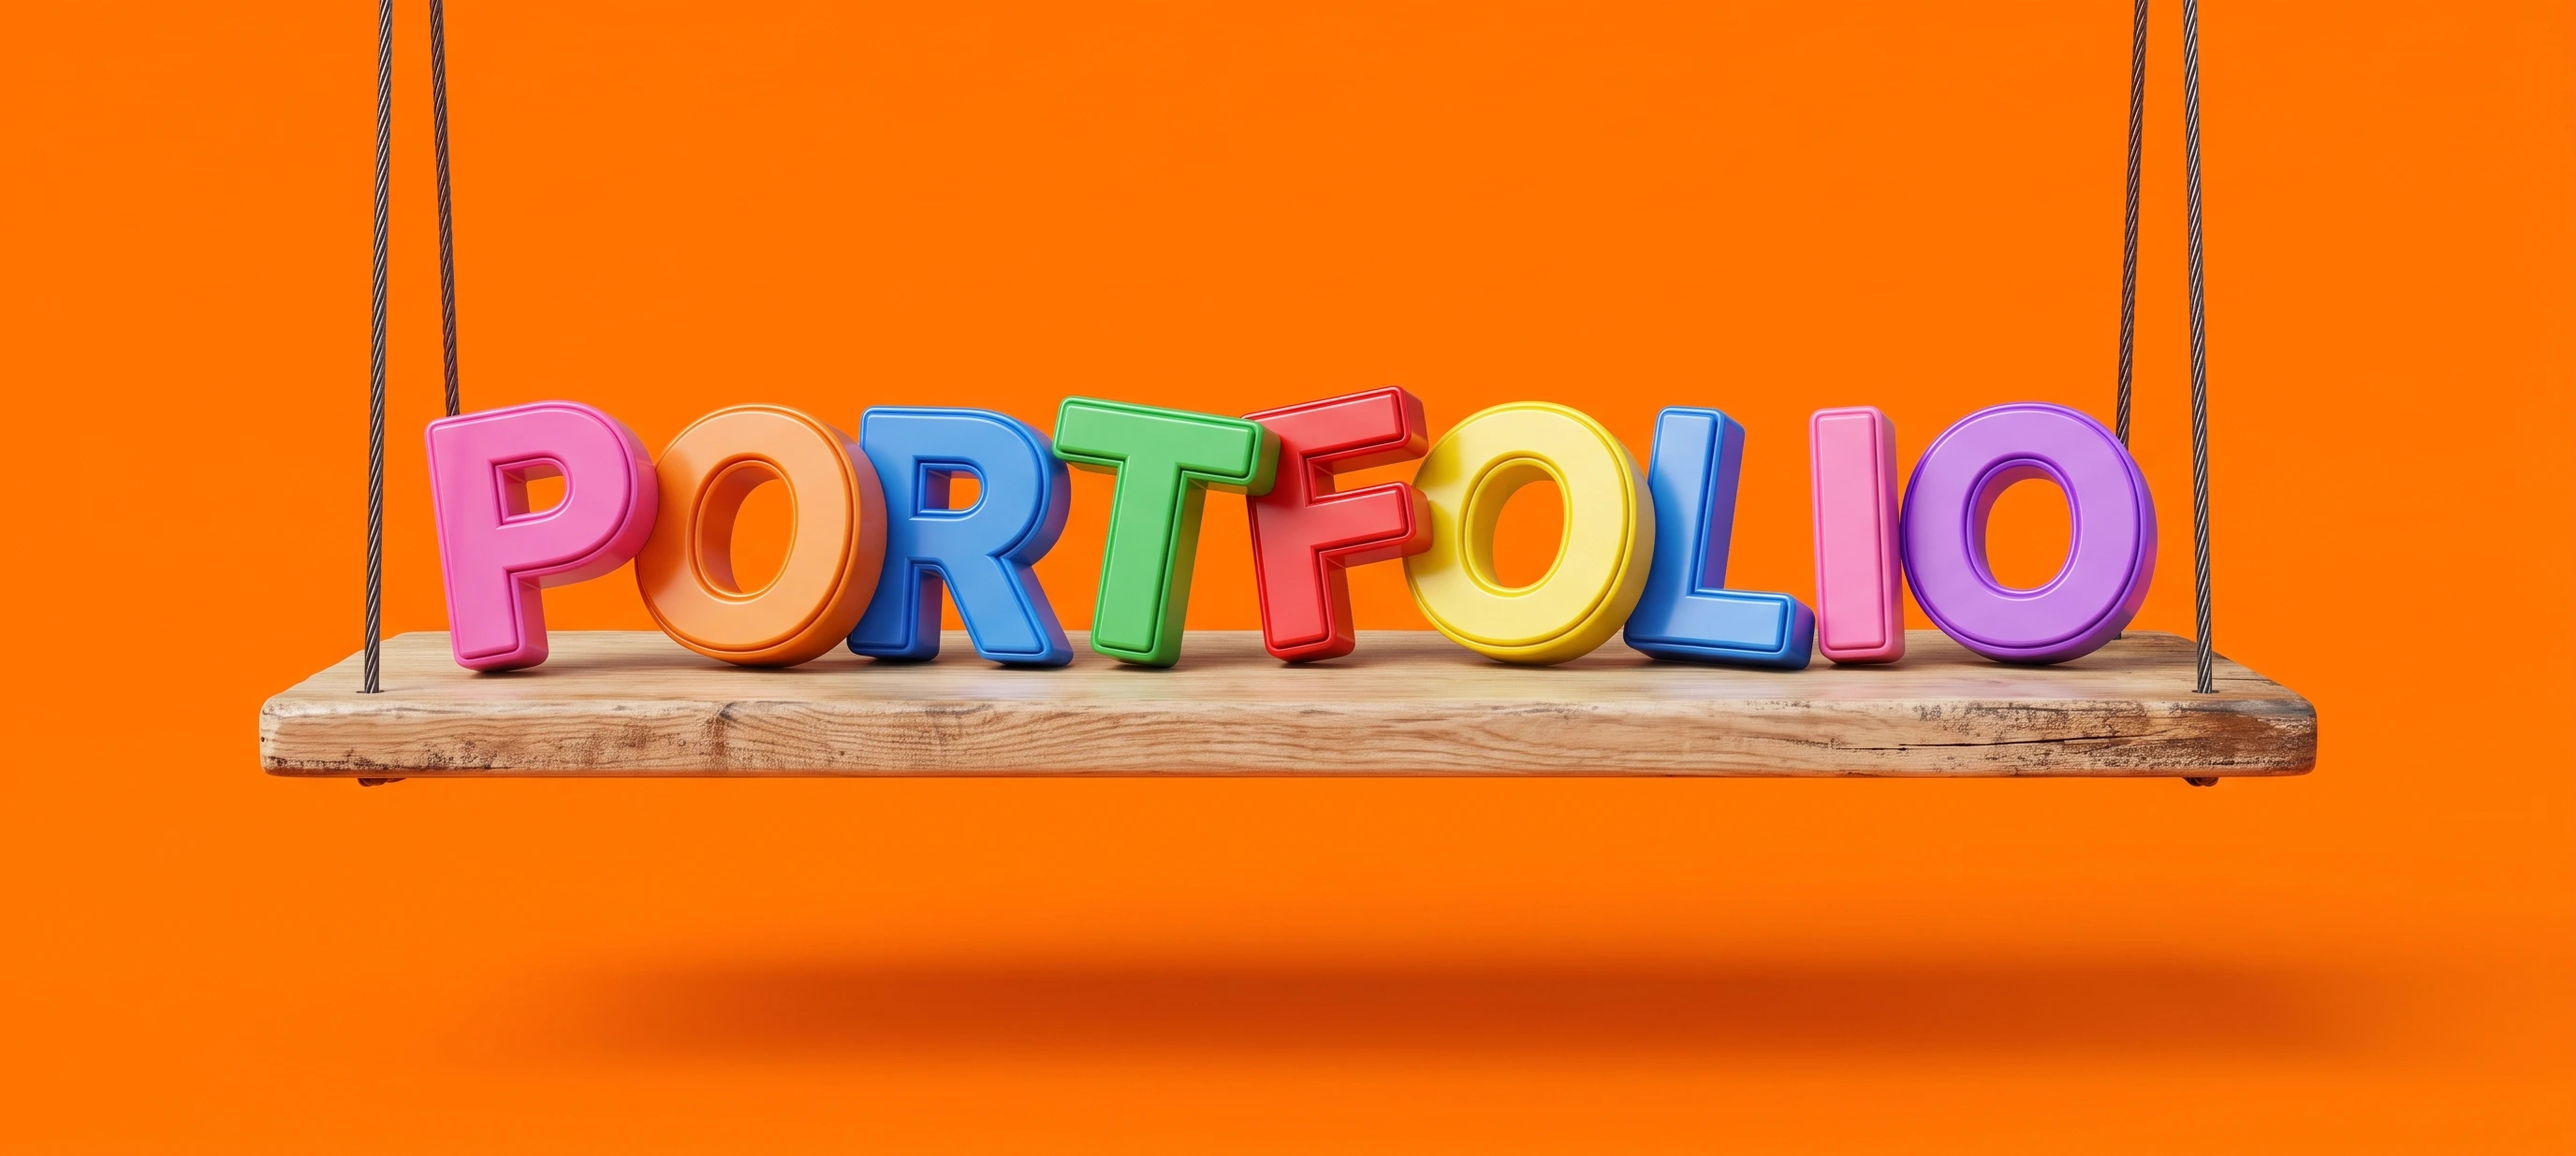
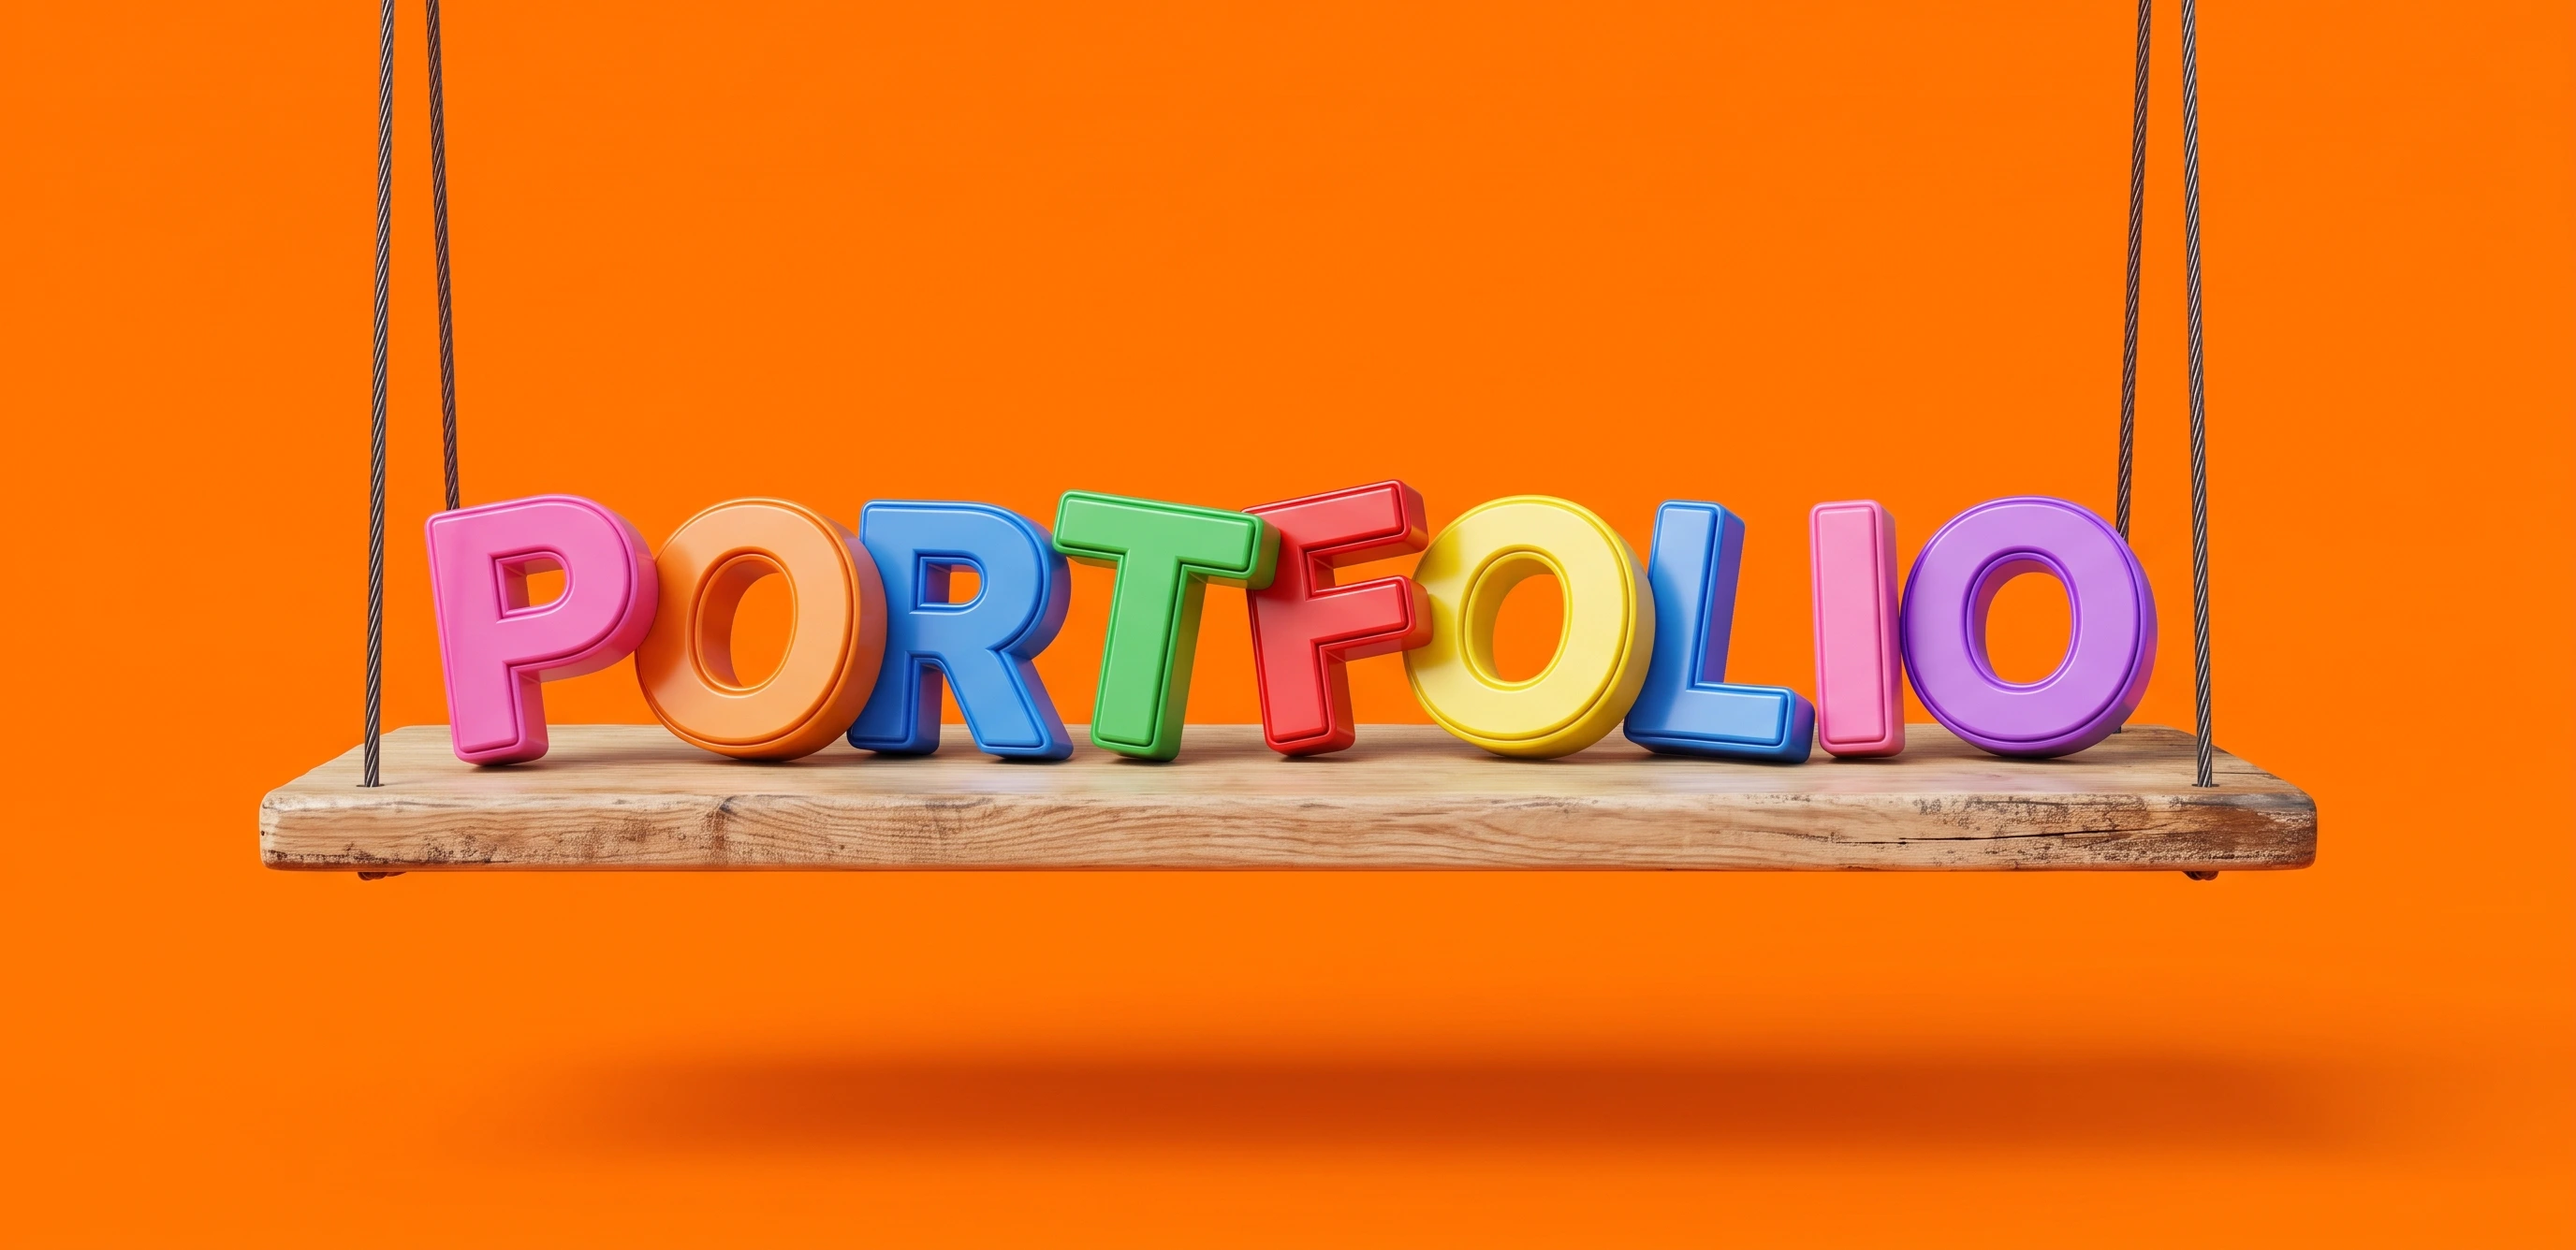
Sai o Ondelle e o mocap branco, baloico desce outra vez
MOCAP BRANCO: era o cartaz do reel de apresentacao. Medido: 99,6% dos
pixeis brancos, desvio 5,5 — e o primeiro fotograma do video, que abre em
branco. Como cartaz do <video> na seccao Motion esta certo (a peca comeca
mesmo assim), mas no meio da roda lia-se como um telemovel apagado.

Vai agora um fotograma com imagem, dos 9,0s — varri o video de meio em meio
segundo e e o ponto com mais tinta e menos branco de toda a duracao. Passou
de 99,6% para 70,8% de branco, com o desvio a subir de 5,5 para 77,8.
O cartaz original fica onde estava; isto e um ficheiro a parte.

ONDELLE saiu a pedido dela. A versao portuguesa ja tinha saido antes — eram
o mesmo desenho, e o cartao ficava quase todo claro (175,7 de brilho) no
meio de ecras escuros. Ficam 19 pecas distintas, repetidas duas vezes.

🔴 O TEXTO NA MADEIRA estava «fora da madeira» e a conta e que estava mal:
eu centrava-o na PRANCHA INTEIRA (57,9% a 69,2%), mas a metade de cima dela
e a face SUPERIOR, vista em perspetiva e meio tapada pelas letras — ali a
madeira so ocupa 17% a 55% da largura, e o texto caia na aresta.

Medido linha a linha: a face da FRENTE e onde a madeira fica larga e
constante, y 864..925 (64,7% a 69,2%), com 70% a 76% da largura. O centro
esta a 66,5%. A caixa passou a 4,2% de altura com o topo a 64,4%, e medido
na pagina depois da 64,4%..68,6%, centro 66,5% — dentro da face.

BALOICO desce outra vez: o corte ao topo foi de 300px para 200. A prancha
[…]

Changed region(s): [[0.0938, 0.0, 0.9062, 0.7071]]

diff --git a/src/components/Entrada.module.css b/src/components/Entrada.module.css
@@ -72,25 +72,31 @@
    * Cortar em cima sobe a prancha no quadro E as cordas continuam a chegar
    * à aresta — cortar em BAIXO teria feito o contrário, descê-la.
    *
-   * 🔴 Foram 450px à primeira e ela disse que ficou alto de mais, que
-   * comia corda. A 300 a prancha fica em 54,5%–66,7% (era 48,3%–62,2% aos
-   * 450, e 63,4%–73,2% sem corte nenhum) — descida ~6 pontos, que é o
-   * «10%» que ela pediu, com a corda de volta.
+   * 🔴 O corte foi descendo a pedido dela: 450px → 300 → 200. A prancha
+   * passou de 48,3%–62,2% (450) para 54,5%–66,7% (300) e agora para
+   * 57,9%–69,2% (200). Sem corte nenhum estaria em 63,4%–73,2%, mas aí as
+   * cordas acabavam a meio do laranja e ele lia-se a flutuar — que foi o
+   * defeito de origem.
    */
-  aspect-ratio: 2752 / 1236;
+  aspect-ratio: 2752 / 1336;
 }
 
 /*
  * O texto vai escrito na FACE LATERAL da prancha, a pedido dela — como a
  * referência o tem na viga.
  *
- * Medido na imagem JÁ CORTADA (2752×1236): a face da frente da prancha — a
- * parte que aparece a toda a largura — vai de 58,09% a 66,59% da altura, e
- * de x 10,0% a 89,9%. O CENTRO dela está a 62,34%.
+ * Medido na imagem JÁ CORTADA (2752×1336), linha a linha.
  *
- * 🔴 O texto andava encostado ao bordo de cima da madeira. Agora a caixa
- * tem 5,2% de altura e o seu topo está a 59,74% — 62,34 menos metade —
- * por isso o texto cai no meio da face, não em cima dela.
+ * 🔴 A conta não pode ser «a prancha inteira»: ela vai de 57,9% a 69,2%,
+ * mas a metade de cima é a face SUPERIOR, vista em perspetiva e meio tapada
+ * pelas letras — ali a madeira só ocupa 17% a 55% da largura. Foi por isso
+ * que o texto apareceu «fora da madeira»: eu centrava-o na prancha toda e
+ * ele caía na aresta.
+ *
+ * A face da FRENTE é onde a madeira fica larga e constante: y 864..925, ou
+ * seja 64,7% a 69,2%, com 70% a 76% da largura. O centro dela está a 66,5%
+ * — e é aí que o texto tem de cair. A caixa tem 4,2% de altura (a face tem
+ * 4,5%), com o topo a 64,4%.
  *
  * 🔴 A tinta é ESCURA e não branca. Medido o contraste contra a madeira
  * (média RGB 196,144,105): branco dá 2,79:1 e falha; a tinta da casa dá
@@ -99,17 +105,17 @@
  */
 .viga {
   position: absolute;
-  top: 59.74%;
+  top: 64.4%;
   left: 11%;
   width: 78%;
-  height: 5.2%;
+  height: 4.2%;
   margin: 0;
   display: flex;
   align-items: center;
   justify-content: center;
   gap: clamp(0.4rem, 1.8vw, 1.8rem);
   font-family: var(--font-sans);
-  /* Tem de caber na face da prancha: 5,2% da altura da imagem cortada. */
+  /* Tem de caber na face da frente, que mede 4,5% da altura da imagem. */
   font-size: clamp(0.36rem, 0.85vw, 0.78rem);
   font-weight: 700;
   letter-spacing: 0.14em;

diff --git a/src/components/PulseArco.tsx b/src/components/PulseArco.tsx
@@ -122,9 +122,31 @@ const ecransPulse: Cartao[] = (pulse.gallery ?? []).map((g) => ({
  * apontou. Não é uma lista escrita à mão: é o campo `ratio` a decidir, por
  * isso qualquer peça nova entra ou sai sozinha conforme o formato.
  */
+/*
+ * 🔴 O cartaz do reel de apresentação não serve PARA AQUI.
+ *
+ * Medido: 99,6% dos píxeis dele são brancos, com desvio de 5,5 — é o
+ * primeiro fotograma do vídeo, que abre em branco. Como cartaz do <video>
+ * na secção Motion está certo (é mesmo assim que a peça começa), mas no
+ * meio da roda lia-se como um telemóvel apagado, e ela apanhou-o duas vezes.
+ *
+ * Em vez disso vai um fotograma com imagem, tirado do próprio vídeo aos
+ * 9,0s — o ponto onde a peça tem mais tinta e menos branco de toda a sua
+ * duração (varri-a de meio em meio segundo). Passou de 99,6% para 70,8% de
+ * branco, com o desvio a subir de 5,5 para 77,8.
+ *
+ * O cartaz original fica onde estava; isto é um ficheiro à parte.
+ */
+const CARTAZ_PROPRIO: Record<string, string> = {
+  "reel-apresentacao": "/media/pulse/reel-sarynne.webp",
+};
+
 const pecasMotion: Cartao[] = reels
   .filter((r) => r.ratio !== "4/5")
-  .map((r) => ({ src: r.poster, alt: `${r.title} — ${r.category}` }));
+  .map((r) => ({
+    src: CARTAZ_PROPRIO[r.slug] ?? r.poster,
+    alt: `${r.title} — ${r.category}`,
+  }));
 
 /* As capturas e o nome do site a que pertencem, para a alternativa textual. */
 const SITES: [string, string][] = [
@@ -133,7 +155,12 @@ const SITES: [string, string][] = [
   ["lode", "LODÊ — atelier de cabelo"],
   ["sofia-sales", "Sofia Sales Clinic — estética"],
   ["benessere", "Benessere — clínica de estética"],
-  ["ondelle", "Ondelle Aesthetics — med spa"],
+  /*
+   * 🔴 O «ondelle» saiu a pedido dela, e com ele a versão portuguesa já
+   * tinha saído antes — os dois eram o mesmo desenho, e o cartão ficava
+   * quase todo claro (medido: 175,7 de brilho e 18,9% de branco puro) no
+   * meio de ecrãs escuros.
+   */
   /*
    * 🔴 O «ondelle-pt» saiu. Era o mesmo desenho do Ondelle (a versão
    * portuguesa do mesmo site), e para não ficarem dois cartões iguais
